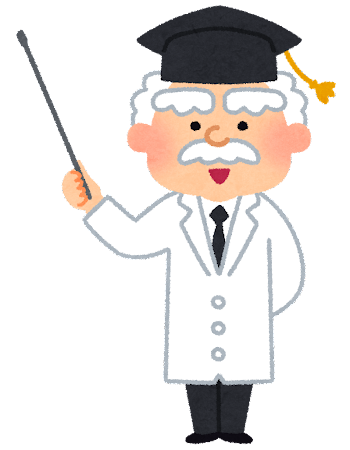
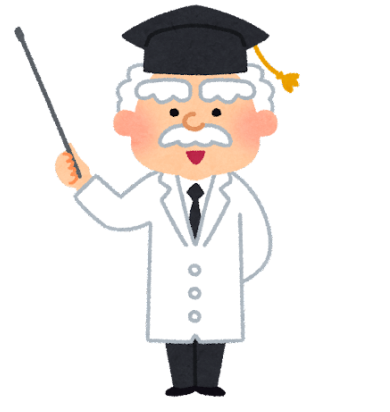
topの博士を真ん中に配置

Changed region(s): [[0.0286, 0.0, 0.9714, 0.9903], [0.8286, 0.6408, 0.8571, 0.6699]]

diff --git a/src/views/HomeView.vue b/src/views/HomeView.vue
@@ -179,7 +179,10 @@
           <div class="kokuban_wrap">
               <h1 class="dr">国旗ハカセ</h1>
               <!-- <img class="kokuban" src="../assets/blackboard.png" alt="title"> -->
-              <img class="hakase" src="../assets/hakase_top.png" alt="hakase">
+              <div class="hakase_wrap">
+                <img class="hakase" src="../assets/hakase_top.png" alt="hakase">
+                <!-- <span class="hakase_migi">mig</span> -->
+              </div>
           </div>
           <div class="kokki_wrap">
             <img class="kokki" :src="flagLists[3].flag" alt="flag">
@@ -419,13 +422,21 @@
   font-size: 300%;
   white-space: nowrap;
 }
+.hakase_wrap{
+  position: absolute;
+  height: 100%;
+  width: 100%;
+  text-align: center;
+  padding-top: 38%;
+}
 .hakase{
   /* height: 380px; */
   height: 190px;
-  position: absolute;
+  /* position: absolute;
   top: 60%;
   left: 50%;
   right: 50%;
+  display: block; */
 }
 .kokki{
   /* height: 120px; */
